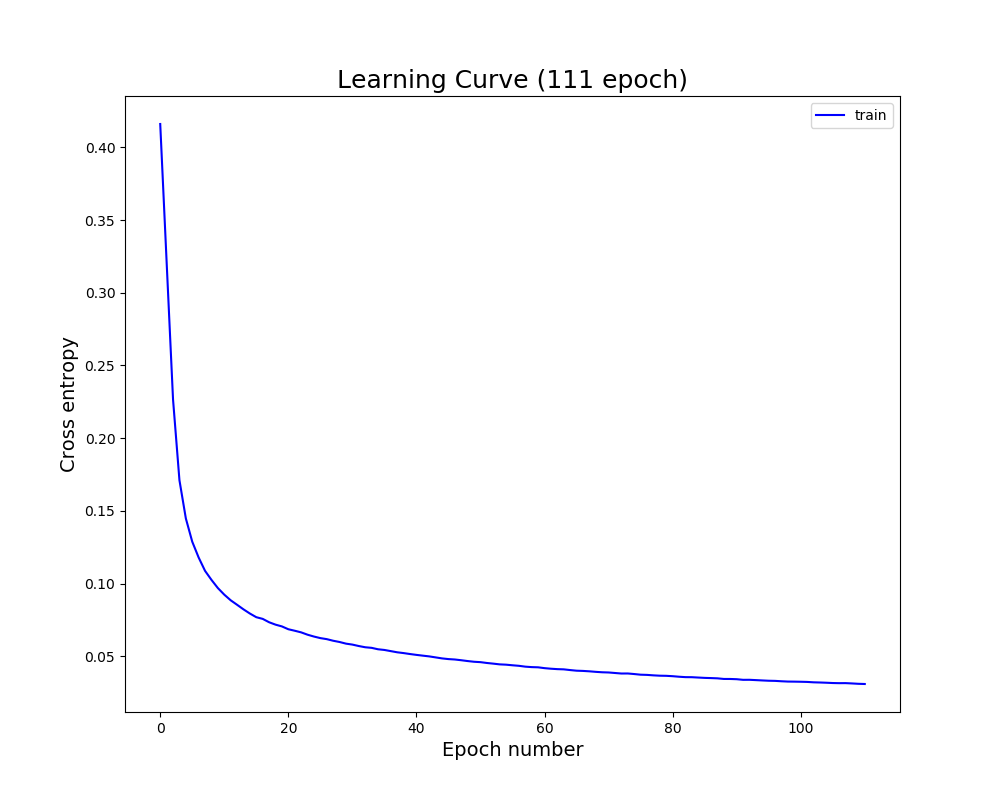
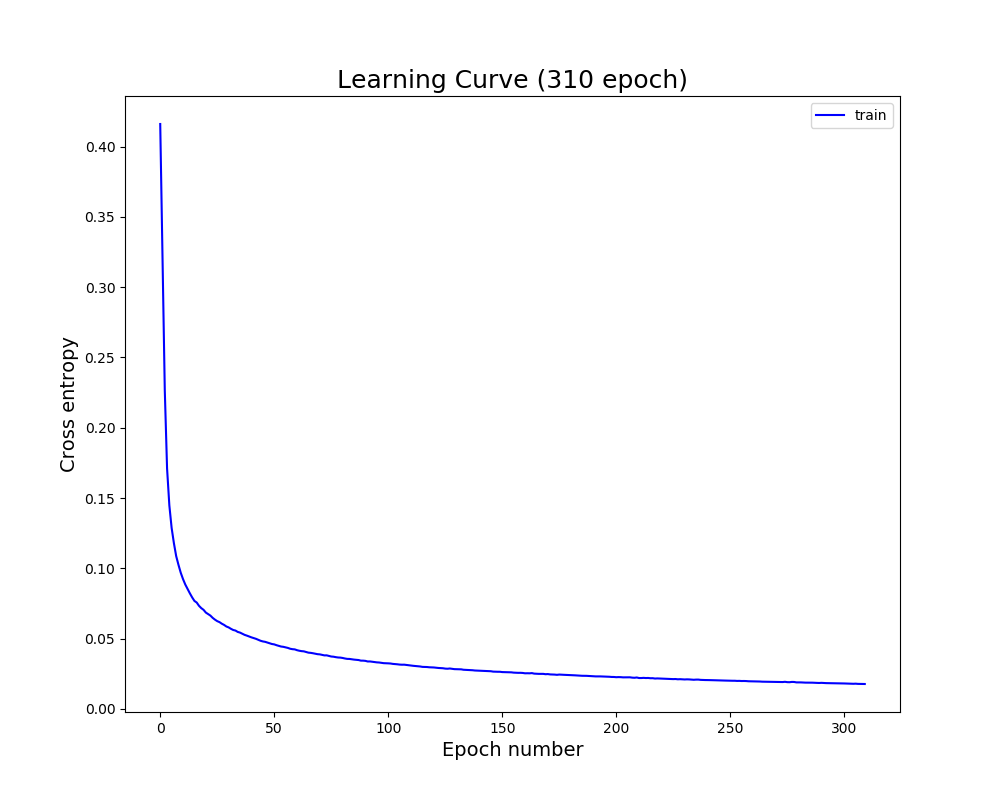
final model at epoach 310

diff --git a/code/main.py b/code/main.py
@@ -17,7 +17,7 @@ import os
 import json
 
 # mode
-train_flag = True   # True for train model, false for load the model to test
+train_flag = False   # True for train model, false for load the model to test
 train_from_last_model = True   # True for train a model from the exist file, false for train a new model
 
 # Training parameter
